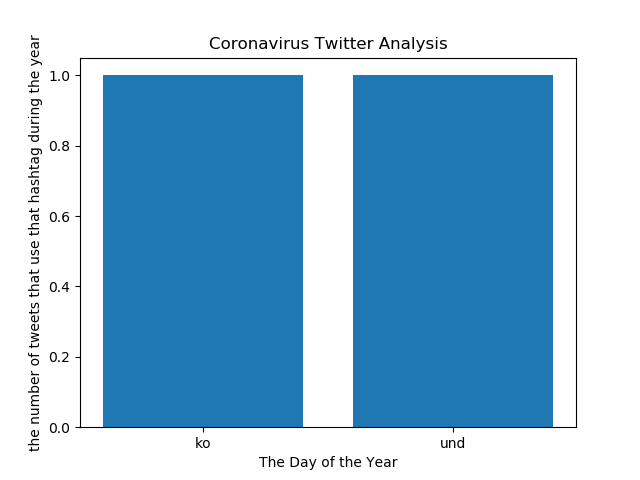
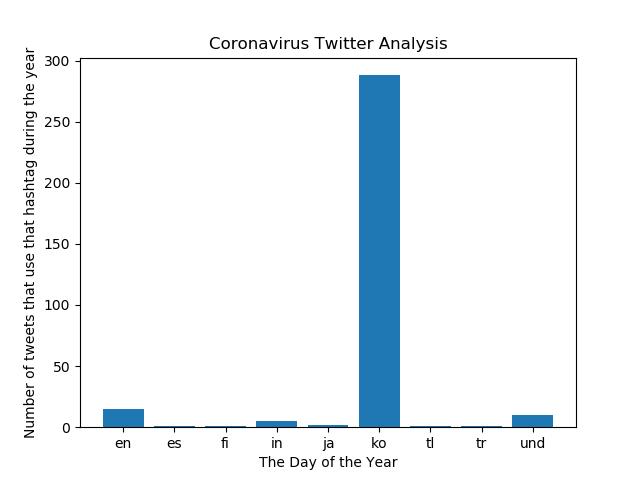
graph test

diff --git a/src/visualize.py b/src/visualize.py
@@ -29,12 +29,12 @@ for k,v in items:
 import matplotlib
 matplotlib.use("Agg")
 import matplotlib.pyplot as plt
-top_10_items = sorted(items)[:10]
+top_10_items = items[:10]
 k = [item[0] for item in top_10_items]
 v = [item[1] for item in top_10_items]
 plt.bar(k, v)
 plt.xlabel('The Day of the Year')
-plt.ylabel('the number of tweets that use that hashtag during the year')
+plt.ylabel('Number of tweets that use that hashtag during the year')
 plt.title('Coronavirus Twitter Analysis')
 if args.input_path[-1] == 'g':
     plt.savefig(args.key[1:] + '_lang.png')
